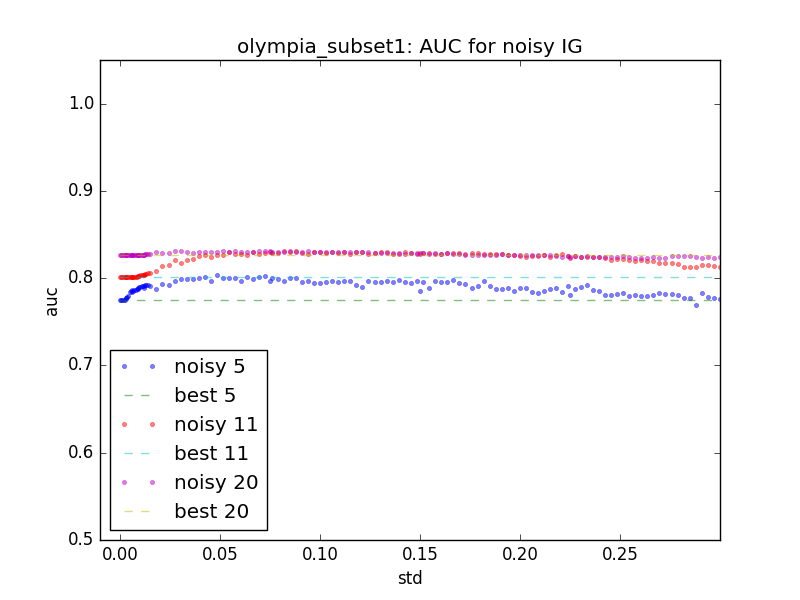
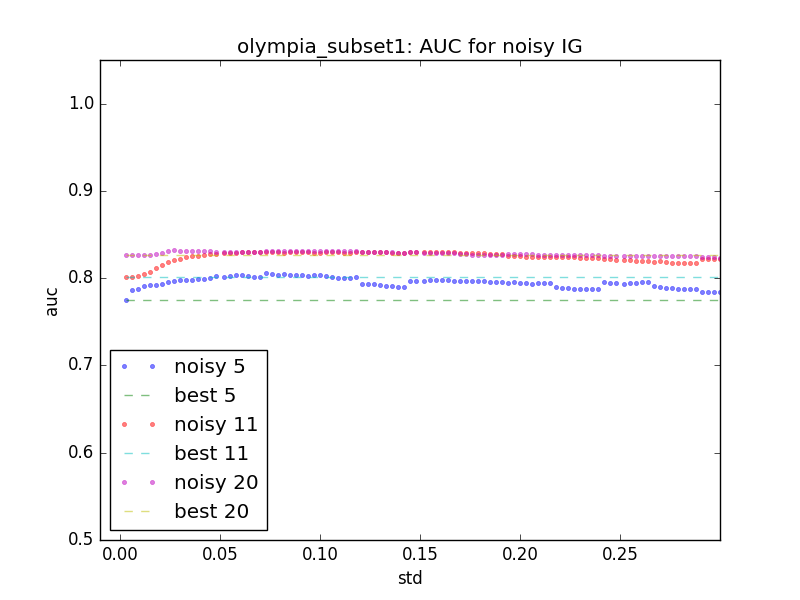
adjusted evaluation script for new requirements

Changed region(s): [[0.1562, 0.39, 0.9062, 0.51]]

diff --git a/analysis_noisy_means_drop.py b/analysis_noisy_means_drop.py
@@ -11,6 +11,8 @@ from CSFSEvaluator import CSFSEvaluator
 from CSFSLoader import CSFSLoader
 from CSFSSelector import CSFSAllFeaturesNoisySelector, CSFSBestActualSelector, CSFSRandomSelector
 
+cmap = plt.get_cmap('jet_r')
+
 
 def _conduct_analysis(df, target, mean_error, N_features, N_samples, dataset_name):
     sys.stdout.write('mean_error:{}{}'.format(mean_error,'\n'))
@@ -45,23 +47,23 @@ def analysis_general(dataset_name, N_features, N_samples, target):
 def get_result_data(n_features, dataset_name, key, N_samples=100,):
     """
 todo: there is only one best in result data (saving memory). show random and noisy_mean
-    :return: {no_features: {std: auc},...} e.g. {16: {0.200036667: 0.53119531952662713, 0.105176567: 0.57273262130177505
+    :return: {no_features: {error: auc},...} e.g. {16: {0.200036667: 0.53119531952662713, 0.105176567: 0.57273262130177505
     """
     path = 'pickle-dumps/{}/'.format(dataset_name)
     files = [f for f in os.listdir(path) if os.path.isfile(os.path.join(path,f))]
 
     results = dict()
-    pattern = r'(\d+)features_{}samples_(.*?)std'.format(N_samples)
+    pattern = r'(\d+)features_{}samples_(.*?)error'.format(N_samples)
     for f in files:
         match = re.match(pattern, f)
-        # print(f)
-        no_features = int(match.group(1))
-        std = float(match.group(2))
+        if match:
+            no_features = int(match.group(1))
+            error = float(match.group(2))
 
-        if no_features not in results.keys():
-            results[no_features] = dict()
+            if no_features not in results.keys():
+                results[no_features] = dict()
 
-        results[no_features][std] = (np.mean(pickle.load(open(os.path.join(path, f), 'rb'))[key]))
+            results[no_features][error] = (np.mean(pickle.load(open(os.path.join(path, f), 'rb'))[key]))
     if n_features:
         results = {r:results[r] for r in n_features}
     return results
@@ -81,9 +83,13 @@ def extract_x_y(result, n_features, start_lim=0):
 
     return np.array(x, dtype=float), np.array(y, dtype=float)
 
+
+
+
 def visualise_results(dataset_name, N_features, fit_curve=False, start_lim=0, show_plot=False, N_samples=100):
-    results_noisy = get_result_data(N_features, dataset_name, key='best_noisy')
+    results_noisy = get_result_data(N_features, dataset_name, key='best_noisy_mean')
     results_best = get_result_data(N_features, dataset_name, key='best')
+    results_rand = get_result_data(N_features, dataset_name, key='random')
     plt.hold(True)
     params = dict()
 
@@ -93,14 +99,19 @@ def visualise_results(dataset_name, N_features, fit_curve=False, start_lim=0, sh
     # def func(x, w1, p1, w2, p2, w3):
     #     return w1 * pow(x, p1) + w2 * pow(x, p2) + w3 * np.log10(x)
 
-    for n_f in N_features:
+    for i,n_f in enumerate(N_features):
         print('== no of features: {}'.format(n_f))
+        color = cmap(float(i)/len(N_features))
+
         x,y = extract_x_y(results_noisy, n_f, start_lim=0)
         std = np.std(y)
-        plt.plot(x, y, '.', alpha=0.5, label='noisy {}'.format(n_f))
+        plt.plot(x, y, '.', color=color, alpha=0.5, label='noisy mean {}'.format(n_f))
 
         x_best, y_best = extract_x_y(results_best, n_f, start_lim=0)
-        plt.plot(x_best, y_best, '--', alpha=0.5, label='best {}'.format(n_f))
+        plt.plot(x_best, y_best, '--', color=color, alpha=0.5, label='best {}'.format(n_f))
+
+        x_rand, y_rand = extract_x_y(results_rand, n_f, start_lim=0)
+        plt.plot(x_rand, y_rand, ':', color=color, alpha=0.5, label='random {}'.format(n_f))
 
         if fit_curve:
             x,y = extract_x_y(results_noisy, n_f, start_lim=start_lim)
@@ -117,8 +128,8 @@ def visualise_results(dataset_name, N_features, fit_curve=False, start_lim=0, sh
             except:
                 print('no matching curve found')
 
-    plt.legend(loc=3)
-    plt.title('{}: AUC for noisy IG'.format(dataset_name))
+    plt.legend(loc=1)
+    plt.title('{}: AUC'.format(dataset_name))
     plt.xlim([-.01, .3])
     plt.ylim([0.5, 1.05])
     plt.xlabel('std')
@@ -131,7 +142,7 @@ def visualise_results(dataset_name, N_features, fit_curve=False, start_lim=0, sh
     dataset_class = dataset_name
     if not os.path.isdir('plots/{}/'.format(dataset_class)):
             os.mkdir('plots/{}/'.format(dataset_class))
-    fig1.savefig('plots/{}/{}.png'.format(dataset_class, dataset_name), dpi=100)
+    fig1.savefig('plots/{}/noisy_mean_{}.png'.format(dataset_class, dataset_name), dpi=100)
     plt.hold(False)
     plt.clf()
 

diff --git a/analysis_olympia.py b/analysis_olympia.py
@@ -87,8 +87,8 @@ def explore_pickle():
         print(data['best_noisy_features_count'])
         print()
 
-do_analysis()
-# evaluate()
+# do_analysis()
+evaluate()
 
 # visualize_result()
 # explore()
